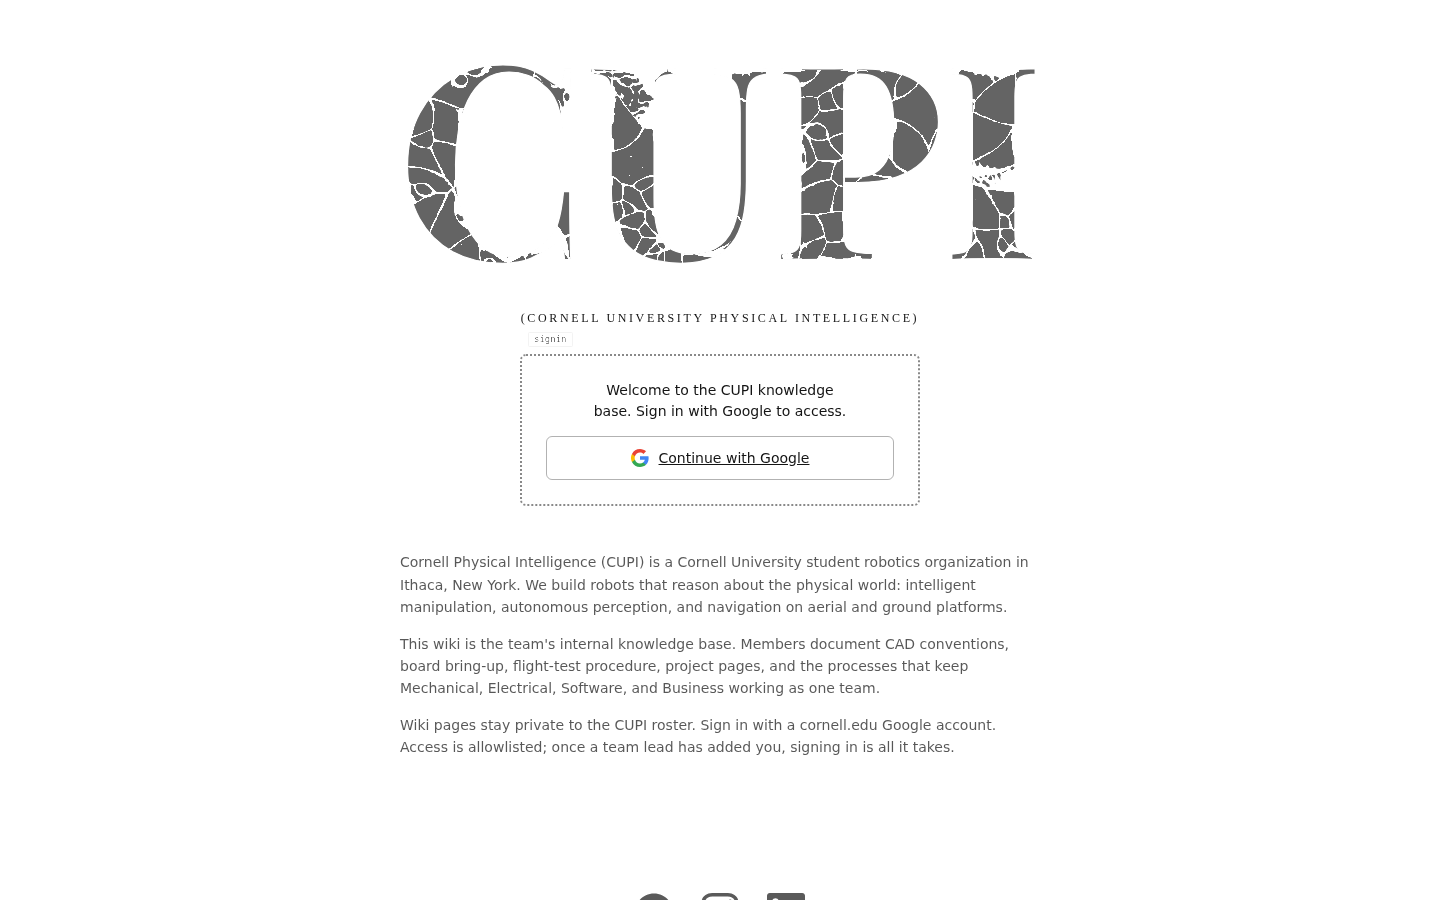
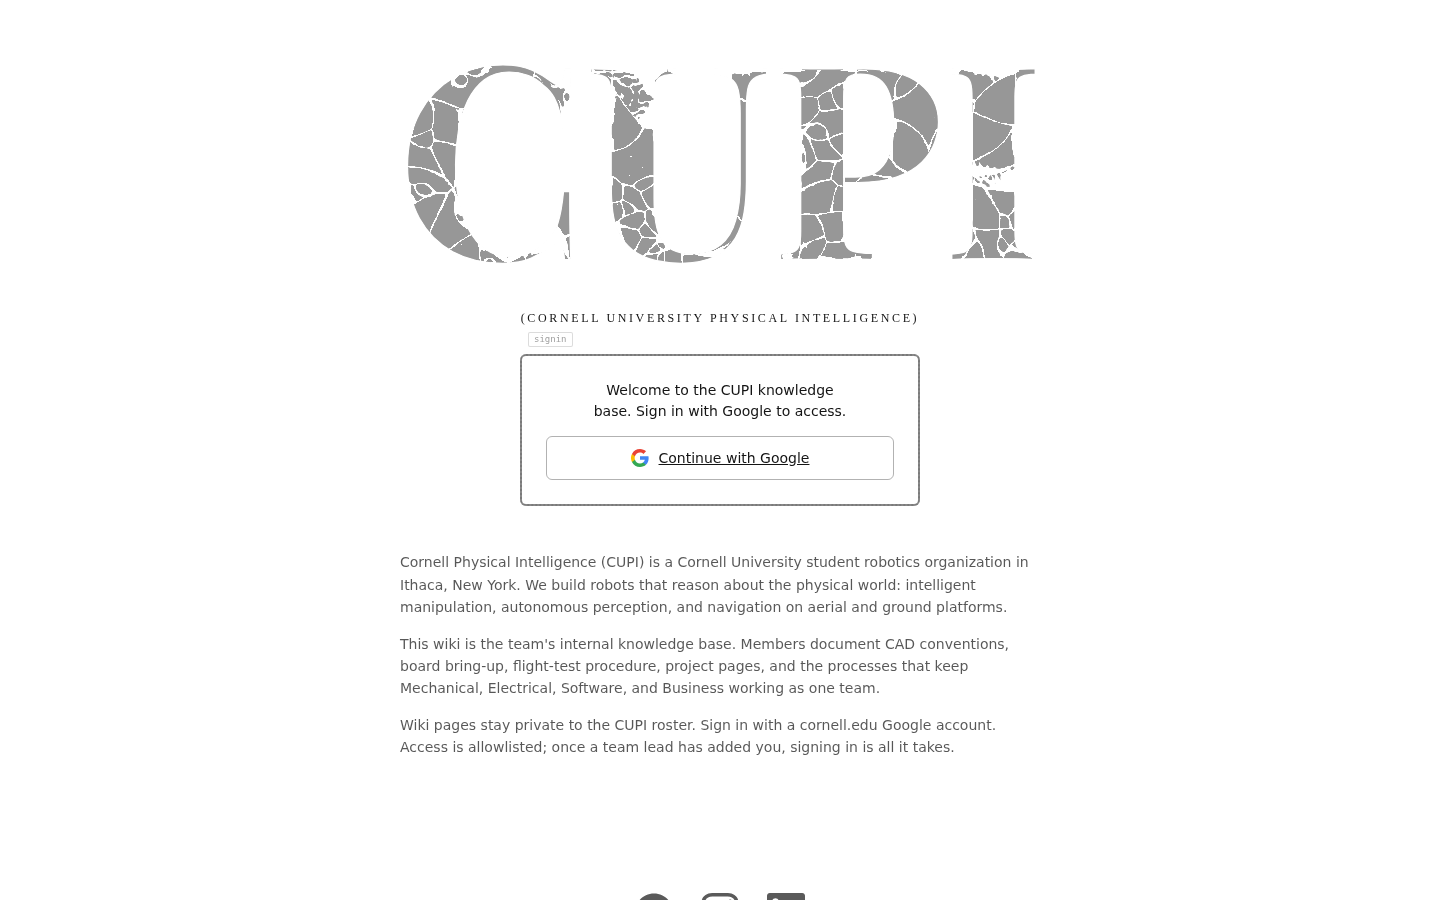
Refresh SEO board 2026-08-23T20:24Z

Changed region(s): [[0.5, 0.0622, 0.7188, 0.3111], [0.375, 0.0622, 0.5, 0.3111], [0.2812, 0.0622, 0.375, 0.3111]]

diff --git a/docs/brief.md b/docs/brief.md
@@ -1,6 +1,6 @@
 # CUPI SEO
 
-Last check: Aug 23, 2026 · 3:49 PM EDT
+Last check: Aug 23, 2026 · 4:24 PM EDT
 
 The official site is live (HTTP 200) and serving “CUPI | Cornell Physical Intelligence at Cornell University.” On a search snapshot from Aug 21, 2026 · 12:50 PM EDT — not Google Search Console — cornellphysicalintelligence.com ranks in 12 of 20 tracked queries, averaging position 2.5 where it appears, and is missing from the other 8. The short queries are the problem: Campus Groups take the #1 slot on the names people actually type. The wiki is not in the top results for any tracked query. The public page is a Google login wall, so there is nothing for a crawler to index.
 
@@ -32,7 +32,7 @@ Average position for cornellphysicalintelligence.com: 2.5
 | Cornell embodied AI club | not in top results | not in top results | Campus Groups | Official site missed. CEI lab 2, CAM 3. |
 
 Website
-Website is up (HTTP 200) and the live title is “CUPI | Cornell Physical Intelligence at Cornell University.” The latest change 18m ago was: Validate CUPI report publication dates. No open pull requests. It is not in the top results for “CUPI”, “CUPI wiki”, “Cornell Physical Intelligence wiki”, “wiki.cornellphysicalintelligence.com”, “cuphysint”, “CUPI Cornell hexapod”, “CUPI Cornell drone”, and “Cornell embodied AI club”.
+Website is up (HTTP 200) and the live title is “CUPI | Cornell Physical Intelligence at Cornell University.” The latest change 5m ago was: Restore original CUPI site presentation. No open pull requests. It is not in the top results for “CUPI”, “CUPI wiki”, “Cornell Physical Intelligence wiki”, “wiki.cornellphysicalintelligence.com”, “cuphysint”, “CUPI Cornell hexapod”, “CUPI Cornell drone”, and “Cornell embodied AI club”.
 
 Wiki
 Wiki is up (HTTP 200) and the live title is “CUPI Wiki | Cornell Physical Intelligence.” The latest change 2h ago was: The mirror works both ways: a preview selection finds its markdown. No open pull requests. It is not in the top results for any tracked query.
